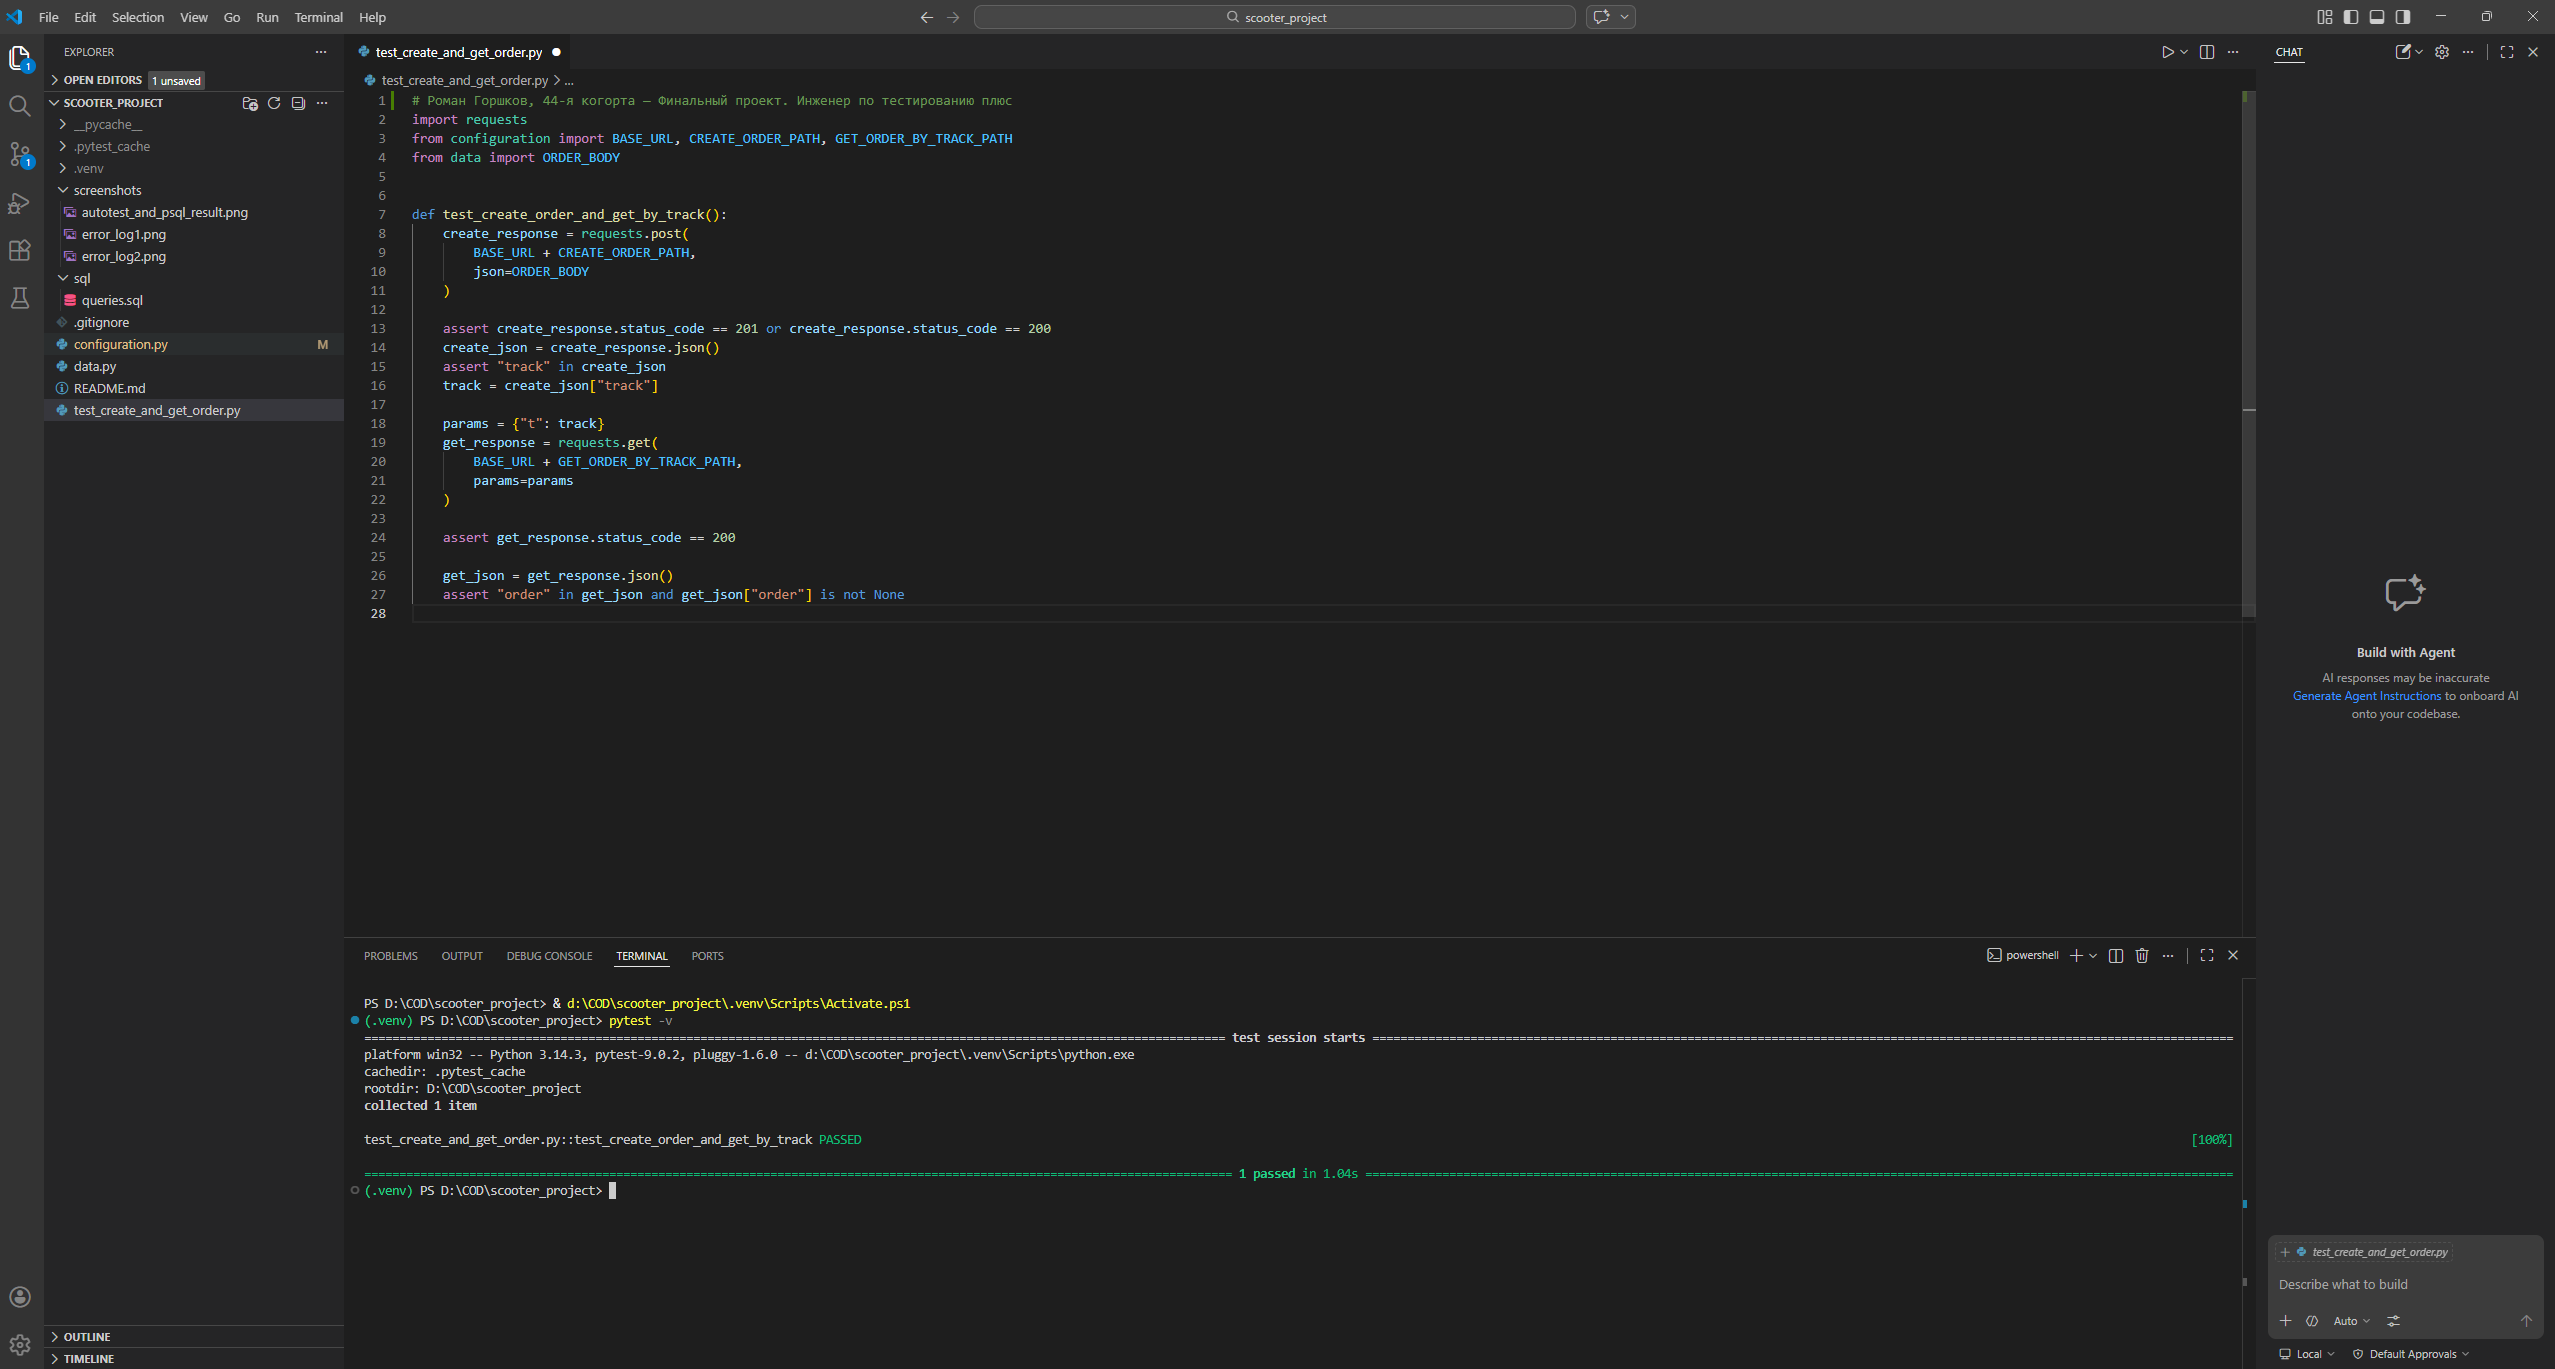
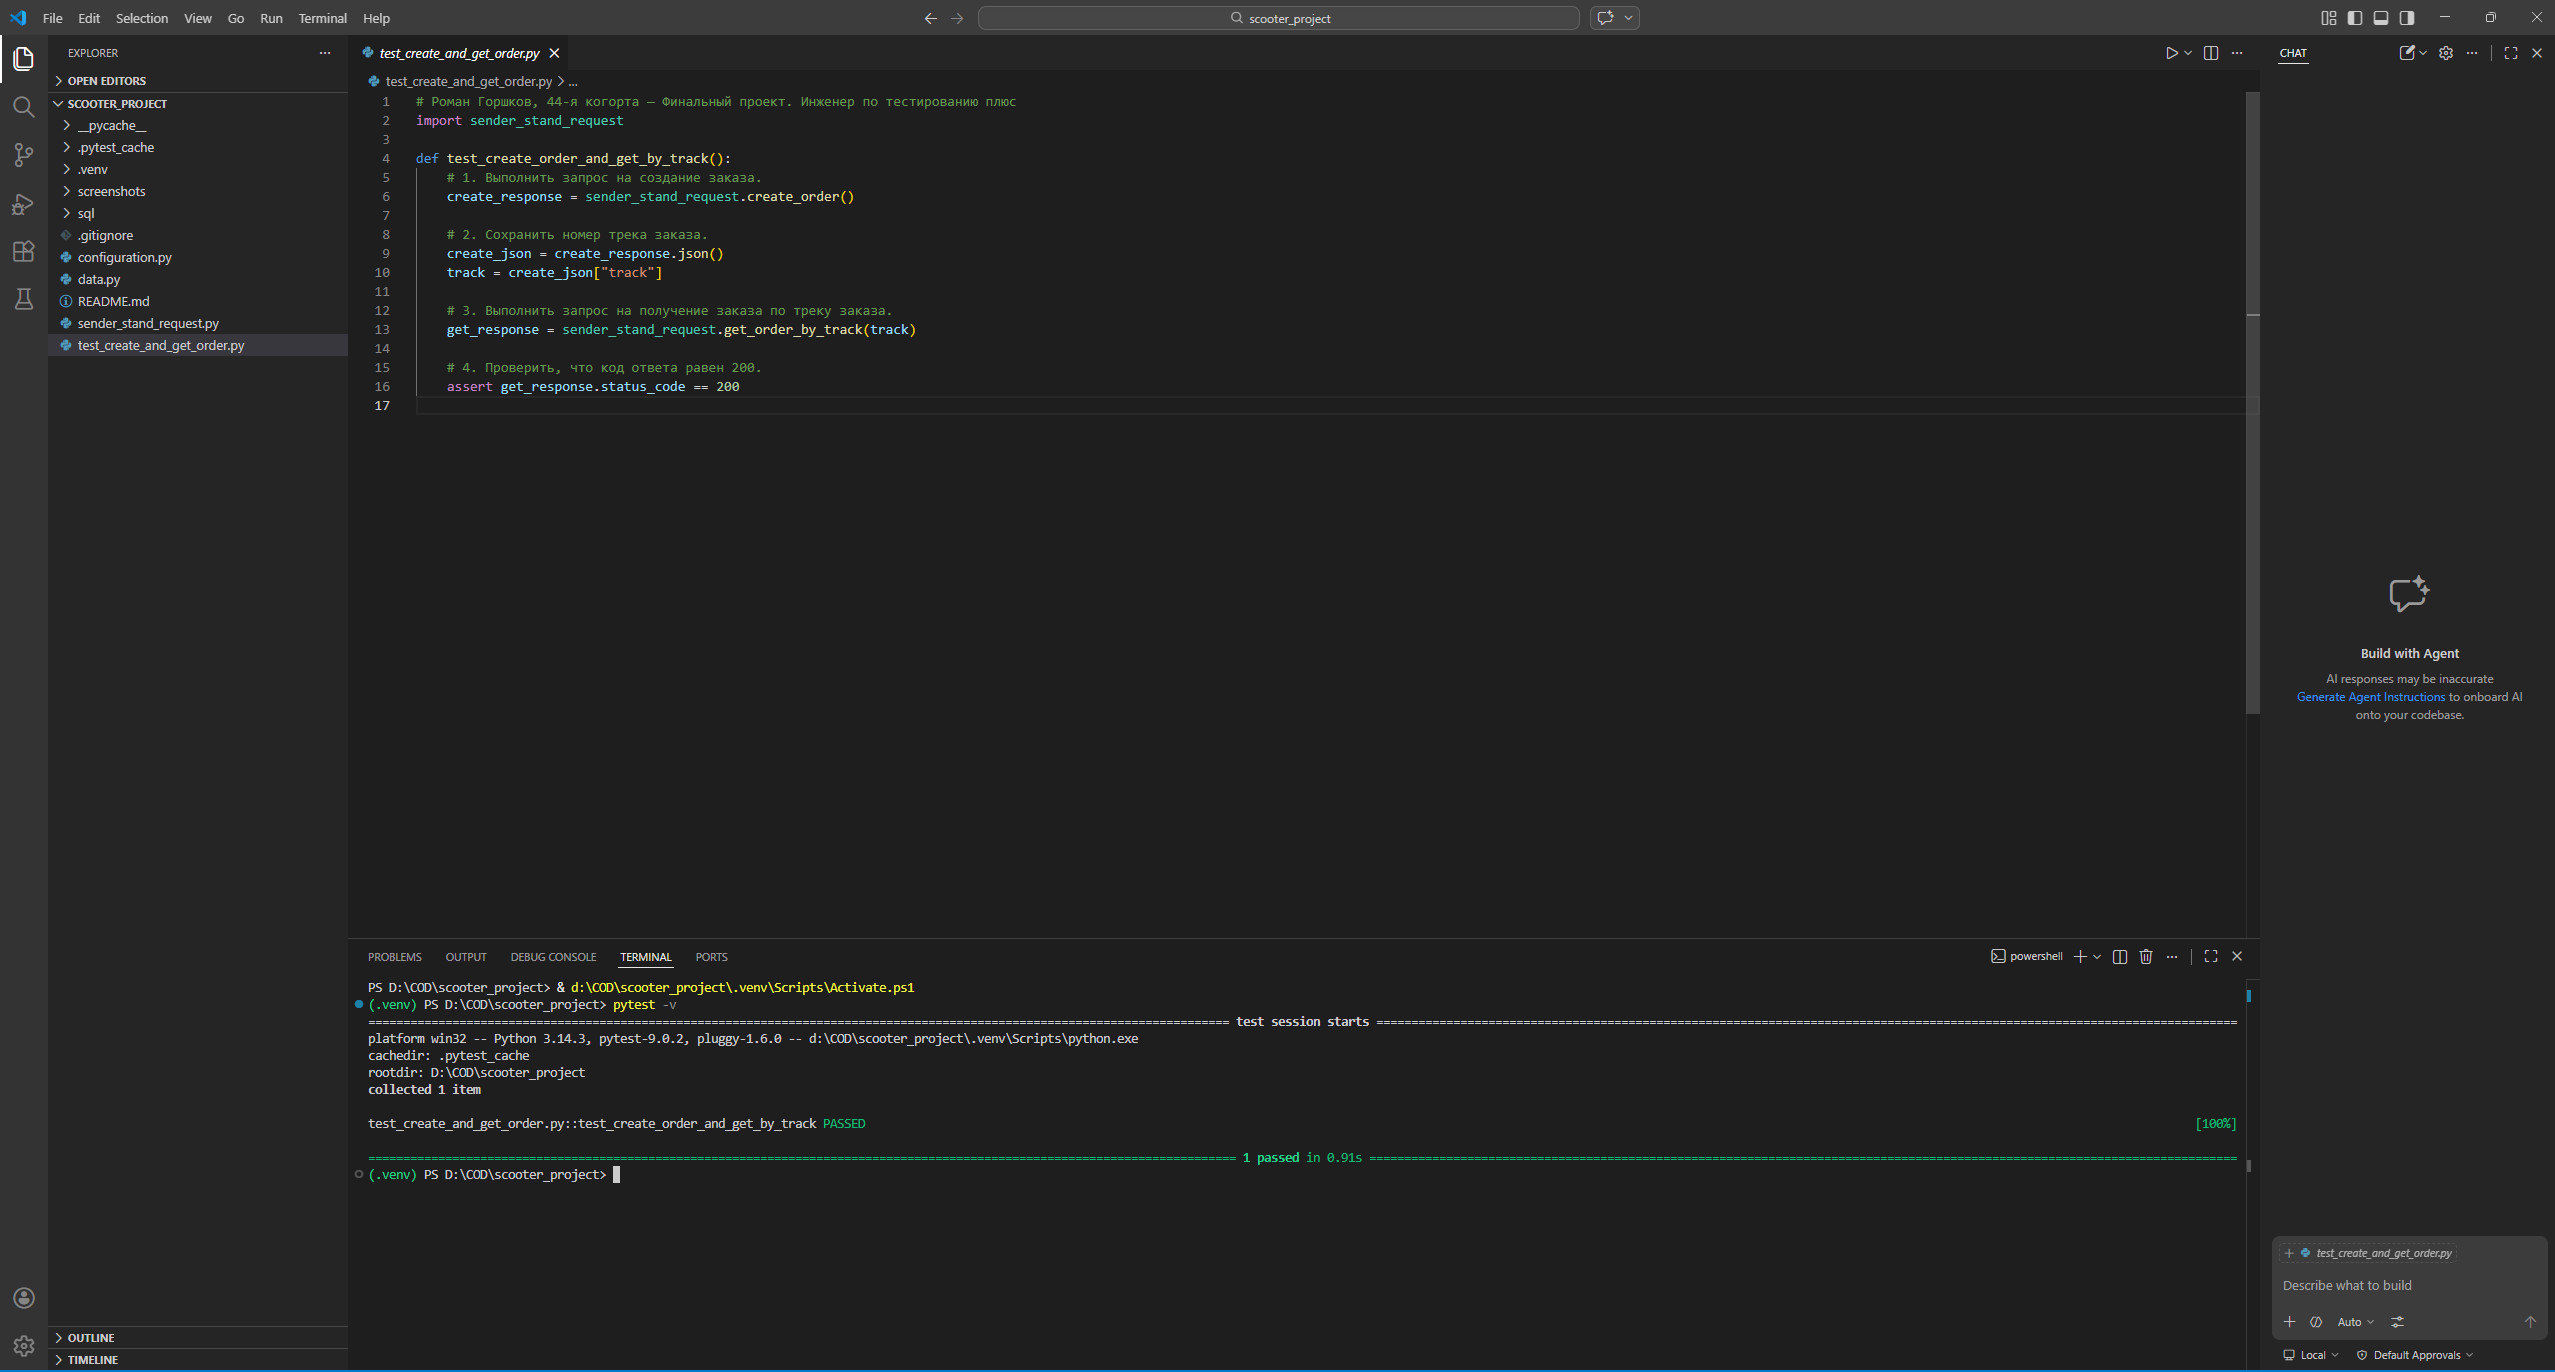
Доработка кода согласно ревью

diff --git a/test_create_and_get_order.py b/test_create_and_get_order.py
@@ -1,27 +1,16 @@
 # Роман Горшков, 44-я когорта — Финальный проект. Инженер по тестированию плюс
-import requests
-from configuration import BASE_URL, CREATE_ORDER_PATH, GET_ORDER_BY_TRACK_PATH
-from data import ORDER_BODY
-
+import sender_stand_request
 
 def test_create_order_and_get_by_track():
-    create_response = requests.post(
-        BASE_URL + CREATE_ORDER_PATH,
-        json=ORDER_BODY
-    )
+    # 1. Выполнить запрос на создание заказа.
+    create_response = sender_stand_request.create_order()
 
-    assert create_response.status_code == 201 or create_response.status_code == 200
+    # 2. Сохранить номер трека заказа.
     create_json = create_response.json()
-    assert "track" in create_json
     track = create_json["track"]
 
-    params = {"t": track}
-    get_response = requests.get(
-        BASE_URL + GET_ORDER_BY_TRACK_PATH,
-        params=params
-    )
+    # 3. Выполнить запрос на получение заказа по треку заказа.
+    get_response = sender_stand_request.get_order_by_track(track)
 
+    # 4. Проверить, что код ответа равен 200.
     assert get_response.status_code == 200
-
-    get_json = get_response.json()
-    assert "order" in get_json and get_json["order"] is not None

diff --git a/sender_stand_request.py b/sender_stand_request.py
@@ -1,0 +1,19 @@
+import requests
+import configuration
+import data
+
+
+def create_order():
+    return requests.post(
+        configuration.BASE_URL + configuration.CREATE_ORDER_PATH,
+        json=data.ORDER_BODY
+    )
+
+
+def get_order_by_track(track):
+    params = {"t": track}
+    return requests.get(
+        configuration.BASE_URL + configuration.GET_ORDER_BY_TRACK_PATH,
+        params=params
+    )
+

diff --git a/configuration.py b/configuration.py
@@ -1,4 +1,4 @@
-BASE_URL = "https://b7256be8-31be-4937-a342-f885ef9d5855.serverhub.praktikum-services.ru"
+BASE_URL = "https://85ef9668-c874-4e7b-ae65-918fb2ccb63d.serverhub.praktikum-services.ru"
 
 CREATE_ORDER_PATH = "/api/v1/orders"
 GET_ORDER_BY_TRACK_PATH = "/api/v1/orders/track"
